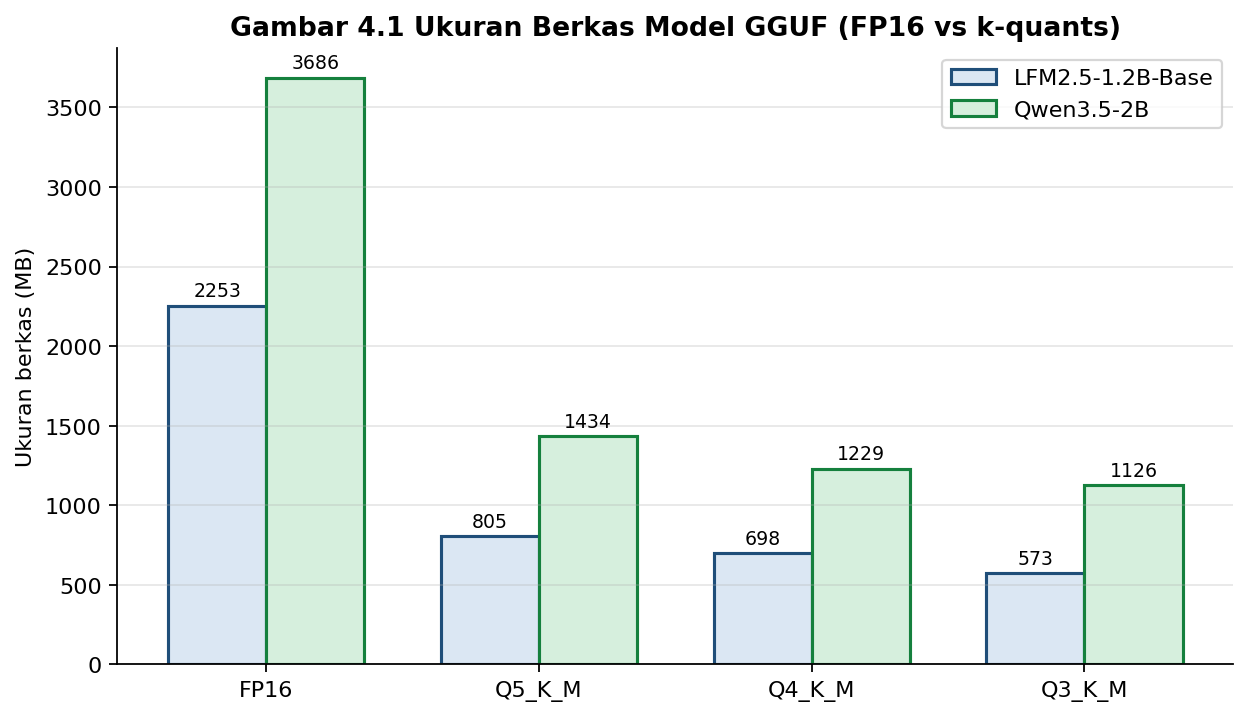
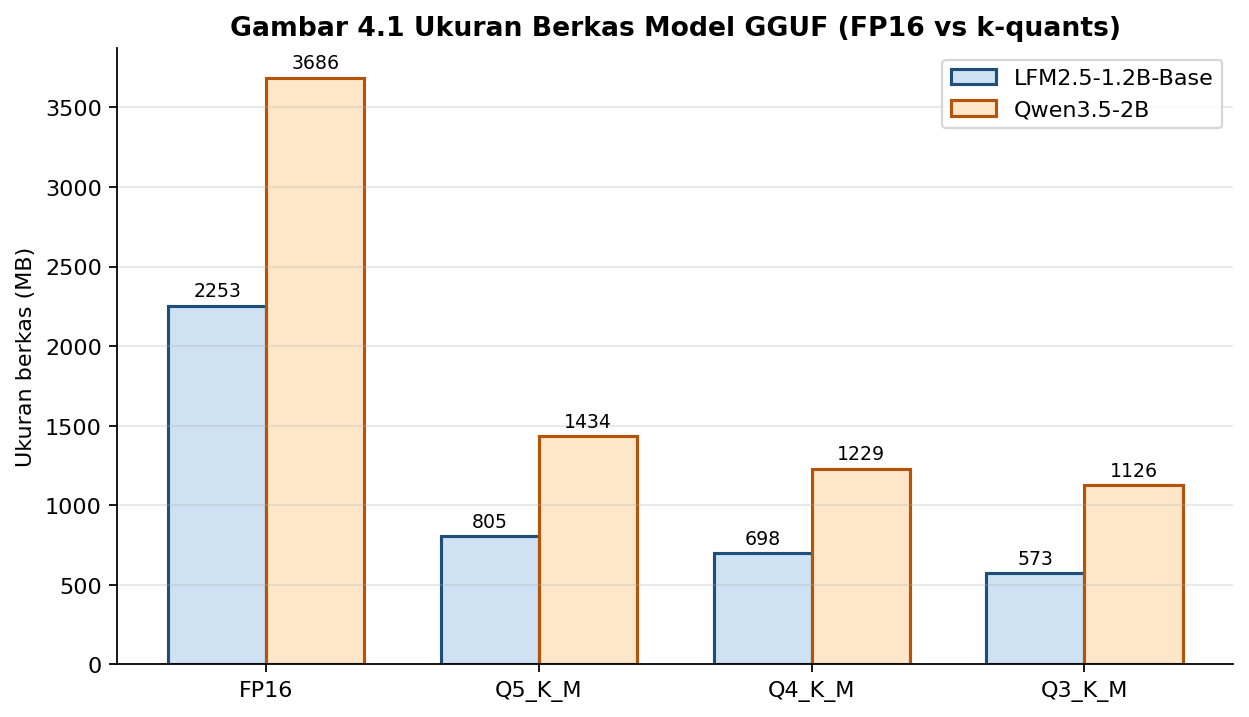
Tingkatkan kontras LFM vs Qwen di diagram BAB 4; reposisi nama model di Gambar 4.5; benerin Pareto labels & PPL ctx & Gambar 2.1 label
User feedback:
- Warna LFM dan Qwen di chart BAB 4 dibikin lebih kontras: LFM = navy (#1f4e79 / fill #cfe2f3), Qwen = oranye-tembaga (#b45309 / fill #fde7c8). Beda hue + beda value, tetap aman grayscale.
- Gambar 4.5 (radar): nama model dipindah dari title ATAS panel ke ANNOTATE BAWAH panel; suptitle dipasang dengan padding 'top=0.88' agar tidak tumpang tindih.

Devin Review fixes:
- BAB 4 Tabel 4.5 Pareto status dihitung ulang dengan strict-domination check. Frontier yang benar = {FP16, Q4_K_M, Q3_K_M} untuk kedua model. Q5_K_M kedua model dominated oleh Q4_K_M (Q4 lebih hemat storage dengan akurasi setara/lebih tinggi). Q3_K_M Qwen Pareto-optimal sebagai paling hemat. Paragraf pembahasan diperbaiki sejalan.
- BAB 3 baris 16 dan 63: konteks PPL diharmoniskan ke 512 token (default llama-perplexity, sama dengan BAB 4).
- DAFTAR_GAMBAR.txt: 'Encoder-Decoder' Gambar 2.1 -> 'Arsitektur Transformer Decoder (basis SLM modern)' agar konsisten dengan kode dan sub-bab 2.1.2.

diff --git a/scripts/make_figures.py b/scripts/make_figures.py
@@ -623,9 +623,11 @@ ACC = {
 
 VARIANTS = ["FP16", "Q5_K_M", "Q4_K_M", "Q3_K_M"]
 MODELS = ["LFM2.5-1.2B-Base", "Qwen3.5-2B"]
-# Dua warna konsisten untuk membedakan dua model di seluruh BAB 4
-MODEL_COLOR = {"LFM2.5-1.2B-Base": PALETTE["blue"], "Qwen3.5-2B": PALETTE["green"]}
-MODEL_FILL  = {"LFM2.5-1.2B-Base": PALETTE["lightblue"], "Qwen3.5-2B": PALETTE["lightgreen"]}
+# Dua warna kontras tinggi (hue + value berbeda) untuk membedakan dua model
+# di seluruh BAB 4. Tetap aman dicetak grayscale karena LFM lebih gelap dari
+# Qwen pada konversi luminance.
+MODEL_COLOR = {"LFM2.5-1.2B-Base": "#1f4e79", "Qwen3.5-2B": "#b45309"}
+MODEL_FILL  = {"LFM2.5-1.2B-Base": "#cfe2f3", "Qwen3.5-2B": "#fde7c8"}
 
 
 def fig_4_1_storage():
@@ -728,11 +730,11 @@ def fig_4_5_radar_quality():
     all_ppl   = [PPL[m][v] for m in MODELS for v in VARIANTS]
     max_size = max(all_sizes); min_ppl = min(all_ppl); max_ppl = max(all_ppl)
 
-    fig, axes = plt.subplots(1, 2, figsize=(13, 6), subplot_kw=dict(polar=True))
-    variant_style = {"FP16": ("-", PALETTE["gray"]),
-                     "Q5_K_M": ("-", PALETTE["green"]),
+    fig, axes = plt.subplots(1, 2, figsize=(13, 7.2), subplot_kw=dict(polar=True))
+    variant_style = {"FP16":   ("-",  PALETTE["gray"]),
+                     "Q5_K_M": ("-",  PALETTE["green"]),
                      "Q4_K_M": ("--", PALETTE["blue"]),
-                     "Q3_K_M": (":", PALETTE["red"])}
+                     "Q3_K_M": (":",  PALETTE["red"])}
     for ax, m in zip(axes, MODELS):
         ax.set_theta_offset(np.pi / 2)
         ax.set_theta_direction(-1)
@@ -740,8 +742,8 @@ def fig_4_5_radar_quality():
         ax.set_xticklabels(cats, fontsize=9)
         ax.set_ylim(0, 1)
         for v in VARIANTS:
-            storage_score = 1.0 - FILE_SIZE_MB[m][v] / max_size      # kecil = bagus
-            ppl_score = 1.0 - (PPL[m][v] - min_ppl) / (max_ppl - min_ppl)  # kecil = bagus
+            storage_score = 1.0 - FILE_SIZE_MB[m][v] / max_size              # kecil = bagus
+            ppl_score = 1.0 - (PPL[m][v] - min_ppl) / (max_ppl - min_ppl)    # kecil = bagus
             mmlu = ACC[m][v]["MMLU"] / 100
             gsm  = ACC[m][v]["GSM8k"] / 100
             he   = ACC[m][v]["HumanEval"] / 100
@@ -750,9 +752,15 @@ def fig_4_5_radar_quality():
             ls, c = variant_style[v]
             ax.plot(angles, vals, ls, color=c, linewidth=2, label=v)
             ax.fill(angles, vals, color=c, alpha=0.08)
-        ax.set_title(m, fontsize=11, fontweight="bold", pad=18)
-        ax.legend(loc="upper right", bbox_to_anchor=(1.30, 1.10), fontsize=8.5)
-    fig.suptitle("Gambar 4.5 Radar Kualitas × Efisiensi (Storage · PPL⁻¹ · MMLU · GSM8k · HumanEval)", fontsize=12, fontweight="bold")
+        # Nama model ditaruh di BAWAH panel (bukan judul atas) supaya tidak
+        # tumpang tindih dengan suptitle. Pakai annotate axes-fraction.
+        ax.annotate(m, xy=(0.5, -0.18), xycoords="axes fraction",
+                    ha="center", va="center", fontsize=11, fontweight="bold",
+                    color=MODEL_COLOR[m])
+        ax.legend(loc="upper right", bbox_to_anchor=(1.32, 1.05), fontsize=8.5)
+    fig.suptitle("Gambar 4.5 Radar Kualitas × Efisiensi (Storage · PPL⁻¹ · MMLU · GSM8k · HumanEval)",
+                 fontsize=12, fontweight="bold", y=0.99)
+    fig.subplots_adjust(top=0.88, bottom=0.14, wspace=0.5)
     save(fig, REPO / "BAB 4" / "gambar" / "4.5_radar_kualitas.png")
 
 
